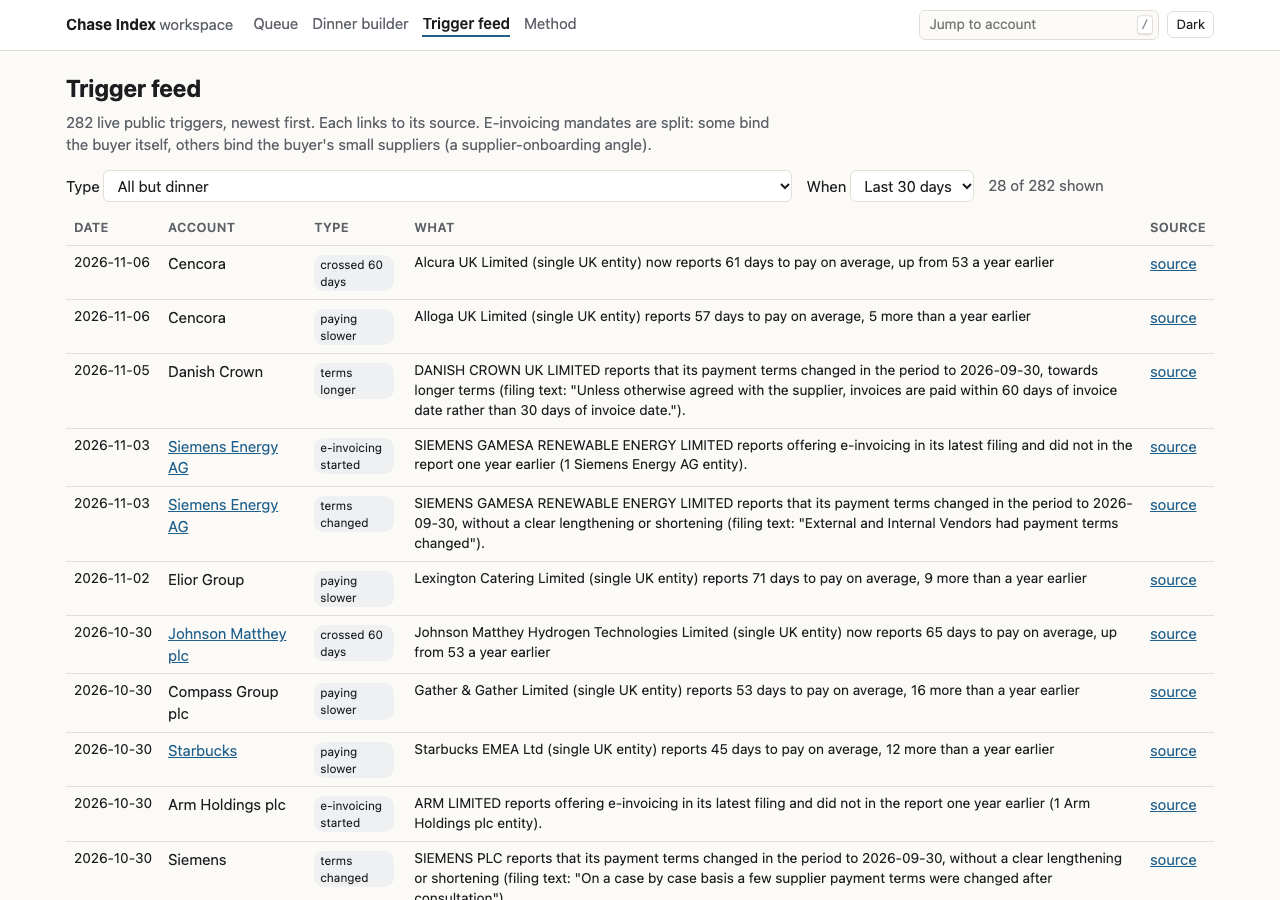
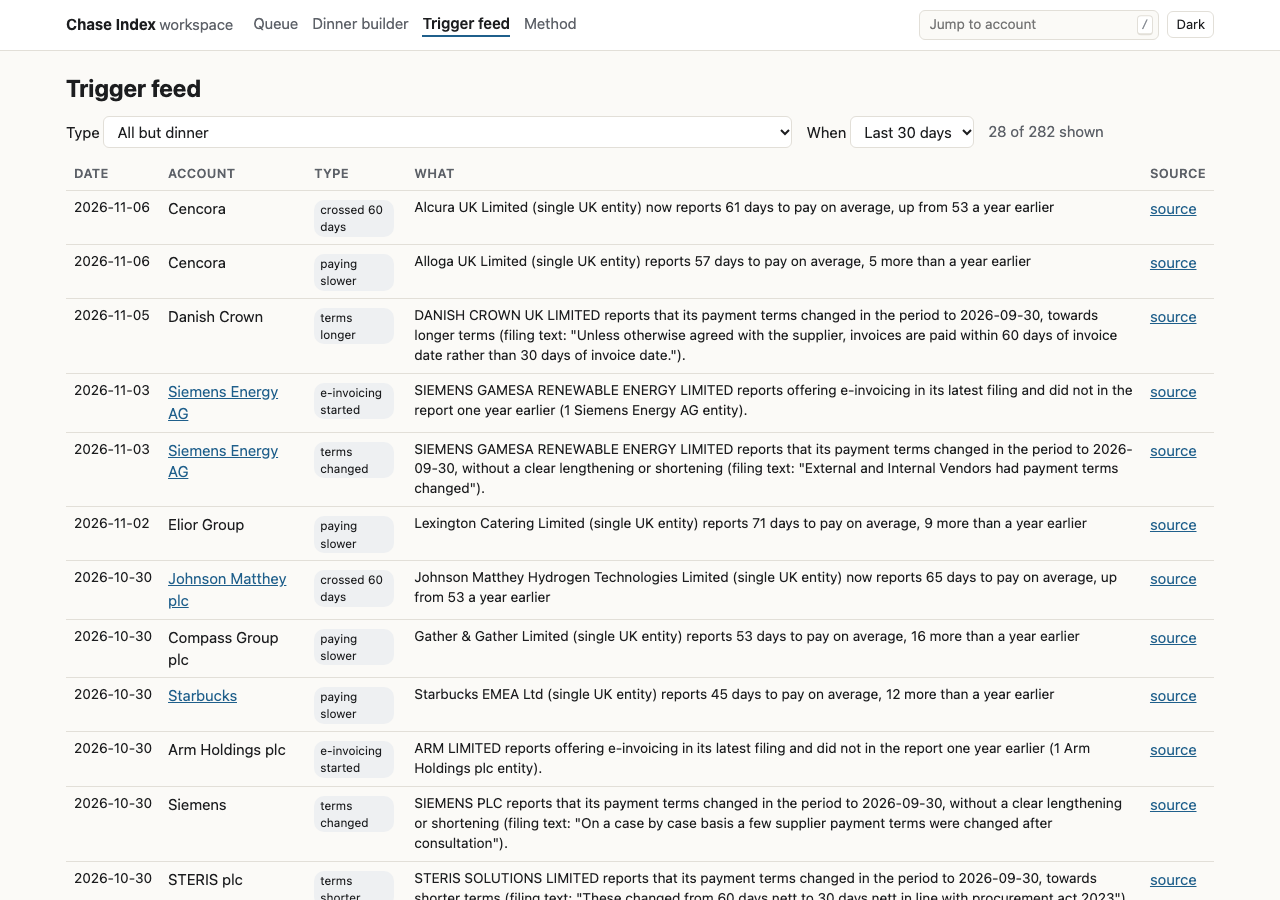
Workspace: queue strip counts that vary week to week, no trigger intro
The strip now shows over 60 days, paying slower, treasurer plays, AP plays
and dinner invites instead of tier and evidence counts that were constant
at the top of the queue. The trigger feed intro paragraph is removed.

diff --git a/workspace/build.py b/workspace/build.py
@@ -245,16 +245,17 @@ STATUS_OPTS = (("todo", "To do"), ("contacted", "Contacted"), ("meeting", "Meeti
 
 
 def summary_strip(queue: dict, keys: dict) -> str:
+    """One line of counts that differ week to week (tier and evidence counts are near-constant at the top of the queue)."""
     acc = queue["accounts"]
-    tiers = {t: sum(1 for a in acc if str(a.get("tier")) == t) for t in ("1", "2", "3")}
-    rep = sum(1 for a in acc if keys[a["company_id"]][2] == "rep")
-    live = sum(1 for a in acc if (a.get("triggers_live_n") or 0) > 0)
-    dinner = sum(1 for a in acc if a.get("play") == "dinner_invite")
-    pl = lambda n, one, many: f"<b>{n}</b> {one if n == 1 else many}"
-    bits = [pl(len(acc), "account", "accounts"), " · ".join(f"<b>{n}</b> T{t}" for t, n in tiers.items() if n),
-            " · ".join(x for x in (f"<b>{rep}</b> reported" if rep else "", f"<b>{len(acc) - rep}</b> proxy" if len(acc) - rep else "") if x),
-            pl(live, "with a live trigger", "with a live trigger"), pl(dinner, "dinner invite", "dinner invites")]
-    return ('<div class="strip" aria-label="Queue summary">' + "".join(f"<span>{b}</span>" for b in bits)
+    days = lambda a: int(keys[a["company_id"]][0].rstrip("d")) if keys[a["company_id"]][0].rstrip("d").isdigit() else 0
+    types = lambda a: set((a.get("why_now_types") or "").split("|"))
+    bits = [(len(acc), "accounts", "all accounts in this week's queue"),
+            (sum(1 for a in acc if days(a) > 60), "over 60 days", "key number above 60 days"),
+            (sum(1 for a in acc if types(a) & {"filing_worsened", "es_pmp_rose"}), "paying slower", "a dated filing shows slower payment than a year earlier"),
+            (sum(1 for a in acc if ROLE_SHORT.get(a.get("who_role") or "", "").startswith("Treasurer") or a.get("who_role") == "CFO office"), "treasurer plays", "ask for the treasurer or CFO office (terms, working capital)"),
+            (sum(1 for a in acc if (a.get("who_role") or "").startswith("Head of accounts payable")), "AP plays", "ask for the head of AP or shared services (process)"),
+            (sum(1 for a in acc if a.get("play") == "dinner_invite"), "dinner invites", "play is a dinner invite")]
+    return ('<div class="strip" aria-label="Queue summary">' + "".join(f'<span title="{E(t)}"><b>{n}</b> {E(l[:-1] if n == 1 and l.endswith("invites") else l)}</span>' for n, l, t in bits)
             + '<span class="st-counts" aria-live="polite"></span></div>')
 
 
@@ -540,8 +541,6 @@ def build_triggers(trigs: list[dict], types: dict) -> str:
 <td class="small">{E(t['text'])}</td><td>{src}</td></tr>""")
     opts = "".join(f'<option value="{E(k)}">{E(v)}</option>' for k, v in types.items() if any(t["trigger_type"] == k for t in trigs))
     body = f"""<h1>Trigger feed</h1>
-<p class="lede">{len(trigs)} live public triggers, newest first. Each links to its source. E-invoicing mandates are split: some bind the buyer itself,
-others bind the buyer's small suppliers (a supplier-onboarding angle).</p>
 <div class="filters" data-target="#trig"><label>Type <select data-filter="type" data-hide-on-all="dinner_city"><option value="">All but dinner</option>{opts}</select></label>
 <label>When <select data-window><option value="30">Last 30 days</option><option value="90">Last 90 days</option><option value="up">Upcoming</option><option value="">Any date</option></select></label>
 <span class="count muted" aria-live="polite"></span></div>

diff --git a/tests/test_workspace.py b/tests/test_workspace.py
@@ -111,6 +111,11 @@ def test_queue_tool_controls_and_neutral_theme():
     assert r.returncode == 0 and "neutral default" in r.stdout
     h = (DIST / "index.html").read_text()
     assert 'class="strip"' in h and 'id="export-status"' in h and 'id="kbd-help"' in h
+    strip = h.split('class="strip"')[1].split("</div>")[0]
+    for label in ("over 60 days", "paying slower", "treasurer plays", "AP plays", "dinner invite"):
+        assert label in strip, label
+    assert " T1" not in strip and "reported" not in strip and "live trigger" not in strip
+    assert 'class="lede"' not in (DIST / "triggers.html").read_text()
     assert "theme.css" not in h and not (DIST / "assets" / "theme.css").exists()
     css = (ROOT / "workspace" / "static" / "style.css").read_text()
     outside = re.sub(r":root[^{]*\{[^}]*\}", "", css)
